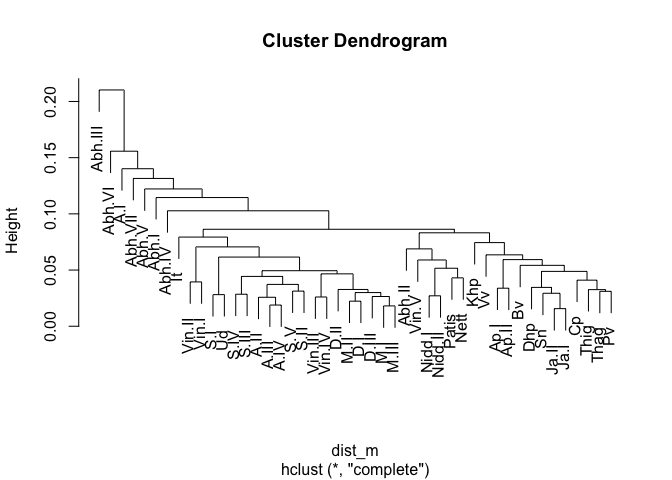
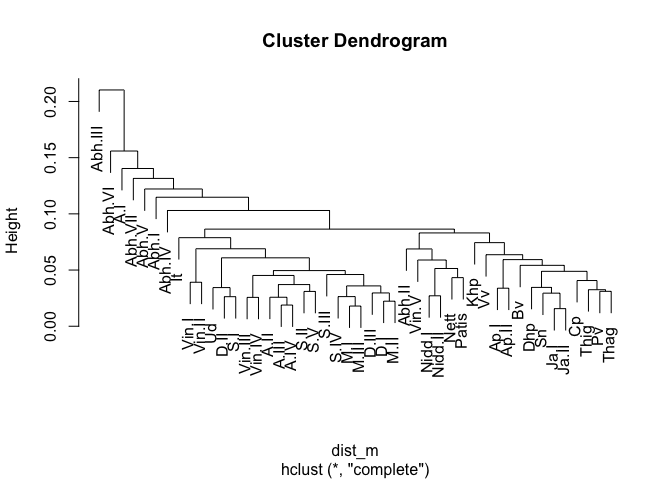
Re-knit README.md with updated function-call syntax

diff --git a/README.md b/README.md
@@ -19,49 +19,21 @@ likely around 100 BCE.
 The tipitaka package provides the texts of the Tipitaka in various
 electronic forms, plus functions for working with the Pali language.
 
-## What’s New in Version 1.0
+## Related Packages
 
-Version 1.0 adds a **critical edition** of the Sutta Pitaka based on a
-five-witness collation:
-
-- **PTS** (Pali Text Society editions via GRETIL) — the base text
-- **SuttaCentral** (Mahāsaṅgīti edition)
-- **VRI** (Chaṭṭha Saṅgāyana / CST4)
-- **BJT** (Buddha Jayanti Tipitaka, Sri Lanka)
-- **Thai** (Syām Raṭṭha Royal Thai Edition)
-
-Key improvements:
-
-- **Lemmatization**: Words are grouped by dictionary headword using the
-  [Digital Pali Dictionary](https://digitalpalidictionary.github.io/)
-  (DPD), achieving 99.78% token-level coverage. For example,
-  “buddhassa”, “buddho”, and “buddhaṃ” are all counted under “buddha”.
-
-- **Sutta-level granularity**: Word frequencies are available for each
-  individual sutta (~5,700 suttas), not just by volume.
-
-- **Corrections**: Where multiple witnesses (SC, VRI, BJT) agree against
-  PTS and the PTS reading is not a valid Pali word per DPD, the text is
-  corrected and the original PTS reading recorded.
+For a **lemmatized critical edition** of the Tipitaka with sutta-level
+granularity, see
+[tipitaka.critical](https://github.com/dangerzig/tipitaka.critical).
 
 ## Data Sources
 
-The package includes two data sources:
+This package includes the complete Tipitaka from the Chattha Sangayana
+Tipitaka version 4.0 (CST4) published by the Vipassana Research
+Institute. It covers all three pitakas (Vinaya, Sutta, and Abhidhamma).
 
-**VRI Edition** (original datasets): The complete Tipitaka from the
-Chattha Sangāyana Tipiṭaka version 4.0 (CST4) published by the Vipassana
-Research Institute. This covers all three pitakas (Vinaya, Sutta, and
-Abhidhamma).
-
-- `tipitaka_raw`, `tipitaka_long`, `tipitaka_wide` - Full canon,
-  volume-level
-
-**Critical Edition** (new in v1.0): A lemmatized critical edition of the
-Sutta Pitaka only.
-
-- `tipitaka_suttas_raw` - Full text per sutta
-- `tipitaka_suttas_long` - Lemma frequencies by sutta
-- `tipitaka_suttas_wide` - Lemma x sutta frequency matrix (sparse)
+- `tipitaka_raw` — Full text per volume (shipped as data)
+- `tipitaka_long()` — Word frequencies per volume (computed on demand)
+- `tipitaka_wide()` — Word frequency matrix (computed on demand)
 
 ## Pali Alphabet
 
@@ -97,7 +69,8 @@ the Pali Canon. For example:
 
 ``` r
 library(tipitaka)
-dist_m <- dist(tipitaka_wide)
+tw <- tipitaka_wide()
+dist_m <- dist(tw)
 cluster <- hclust(dist_m)
 plot(cluster)
 ```
@@ -115,32 +88,18 @@ fviz_cluster(km, dist_m, labelsize = 12, repel = TRUE)
 
 <img src="man/figures/README-kmeans-1.png" alt="" width="100%" />
 
-You can extract data for any individual sutta from the critical edition
-and explore it with packages like `wordcloud`. Here we look at the
-Mahasatipatthana Sutta (DN 22):
-
-``` r
-library(wordcloud)
-# Extract lemma frequencies for DN 22
-dn22 <- tipitaka_suttas_long[tipitaka_suttas_long$sutta == "dn22", ]
-# Remove stop words and plot
-dn22_content <- dn22[!dn22$word %in% pali_stop_words$word, ]
-with(dn22_content, wordcloud(word, n, max.words = 40))
-```
-
-<img src="man/figures/README-wordclouds-1.png" alt="" width="100%" />
-
 Finally, we can look at word frequency by rank:
 
 ``` r
 library(dplyr, quietly = TRUE)
-freq_by_rank <- tipitaka_long %>%
+tl <- tipitaka_long()
+freq_by_rank <- tl %>%
   group_by(word) %>%
   add_count(wt = n, name = "word_total") %>%
   ungroup() %>%
   distinct(word, .keep_all = TRUE) %>%
   mutate(tipitaka_total =
-           sum(distinct(tipitaka_long, book,
+           sum(distinct(tl, book,
                         .keep_all = TRUE)$total)) %>%
     transform(freq = word_total/tipitaka_total) %>%
   arrange(desc(freq)) %>%
@@ -155,119 +114,3 @@ freq_by_rank %>%
 ```
 
 <img src="man/figures/README-freq-by-word-1.png" alt="" width="100%" />
-
-## Lemmatized Analysis (New in v1.0)
-
-The lemmatized critical edition enables more meaningful clustering by
-grouping inflected forms:
-
-``` r
-library(dplyr, quietly = TRUE)
-library(tidyr)
-# Aggregate sutta-level lemma frequencies to nikaya level
-nikaya_wide <- tipitaka_suttas_long %>%
-  group_by(nikaya, word) %>%
-  summarise(n = sum(n), .groups = "drop") %>%
-  group_by(nikaya) %>%
-  mutate(freq = n / sum(n)) %>%
-  select(nikaya, word, freq) %>%
-  pivot_wider(names_from = word, values_from = freq, values_fill = 0) %>%
-  tibble::column_to_rownames("nikaya")
-dist_critical <- dist(nikaya_wide)
-hc_critical <- hclust(dist_critical)
-plot(hc_critical, main = "Nikaya Clustering (Lemmatized)")
-```
-
-<img src="man/figures/README-dendogram-critical-1.png" alt="" width="100%" />
-
-You can search for specific lemmas across all suttas:
-
-``` r
-# Find suttas that mention "nibbana" most frequently
-nibbana <- search_lemma("nibbana")
-head(nibbana[, c("sutta", "nikaya", "n", "freq")], 10)
-#>             sutta nikaya n        freq
-#> 300349      ja272     kn 1 0.032258065
-#> 271647       cnd4     kn 1 0.005524862
-#> 287742 dhp273-289     kn 1 0.005494505
-#> 410997    snp5.19     kn 1 0.003322259
-#> 279614      cnd22     kn 7 0.001741727
-```
-
-### Extracting Sutta Text
-
-The `tipitaka_suttas_raw` dataset provides the full Pali text of every
-sutta. For example, the opening of the Brahmajala Sutta (DN 1):
-
-``` r
-dn1_text <- tipitaka_suttas_raw[tipitaka_suttas_raw$sutta == "dn1", "text"]
-# Show the first 200 characters
-cat(substr(dn1_text, 1, 200), "...\n")
-#> Dīgha Nikāya 1
-#> Brahmajālasutta
-#> 1. Paribbājakakathā
-#> Evaṃ me sutaṃ—
-#> ekaṃ samayaṃ bhagavā antarā ca rājagahaṃ antarā ca nāḷandaṃ addhānamaggappaṭipanno hoti mahatā bhikkhusaṅghena saddhiṃ pañcamattehi bh ...
-```
-
-### Sutta-Level Clustering
-
-With sutta-level data, you can cluster individual suttas within a
-nikaya:
-
-``` r
-# Cluster all 34 Digha Nikaya suttas
-dn_suttas <- tipitaka_suttas_wide[grep("^dn", rownames(tipitaka_suttas_wide)), ]
-dist_dn <- dist(dn_suttas)
-hc_dn <- hclust(dist_dn)
-plot(hc_dn, main = "Digha Nikaya Sutta Clustering", cex = 0.7)
-```
-
-<img src="man/figures/README-sutta-clustering-1.png" alt="" width="100%" />
-
-### Cross-Nikaya Vocabulary Comparison
-
-Which lemmas are most distinctive to each nikaya? Here we find lemmas
-that appear much more frequently in one nikaya than the overall average:
-
-``` r
-library(dplyr, quietly = TRUE)
-# Aggregate sutta-level data to nikaya level
-nikaya_long <- tipitaka_suttas_long %>%
-  group_by(nikaya, word) %>%
-  summarise(n = sum(n), .groups = "drop") %>%
-  group_by(nikaya) %>%
-  mutate(total = sum(n), freq = n / total) %>%
-  ungroup()
-
-# Calculate overall frequency for each lemma
-overall <- nikaya_long %>%
-  group_by(word) %>%
-  summarise(overall_freq = sum(n) / sum(total), .groups = "drop")
-
-# Find the most distinctive lemma in each nikaya
-distinctive <- nikaya_long %>%
-  inner_join(overall, by = "word") %>%
-  mutate(ratio = freq / overall_freq) %>%
-  filter(n >= 100) %>%  # only common words
-  group_by(nikaya) %>%
-  slice_max(ratio, n = 5) %>%
-  select(nikaya, lemma = word, freq, overall_freq, ratio)
-
-distinctive
-#> # A tibble: 25 × 5
-#> # Groups:   nikaya [5]
-#>    nikaya lemma            freq overall_freq ratio
-#>    <chr>  <chr>           <dbl>        <dbl> <dbl>
-#>  1 an     akasiralābhī 0.000351    0.0000790  4.45
-#>  2 an     yathābhata   0.000647    0.000146   4.42
-#>  3 an     saṃvijjamāna 0.000699    0.000168   4.16
-#>  4 an     āhuneyya     0.000369    0.0000887  4.16
-#>  5 an     bahula       0.000735    0.000184   3.98
-#>  6 dn     vāseṭṭha     0.00181     0.000254   7.14
-#>  7 dn     acela        0.000779    0.000120   6.49
-#>  8 dn     nigrodha     0.000996    0.000173   5.76
-#>  9 dn     cunda        0.00134     0.000234   5.74
-#> 10 dn     vipassī      0.000906    0.000163   5.56
-#> # ℹ 15 more rows
-```
